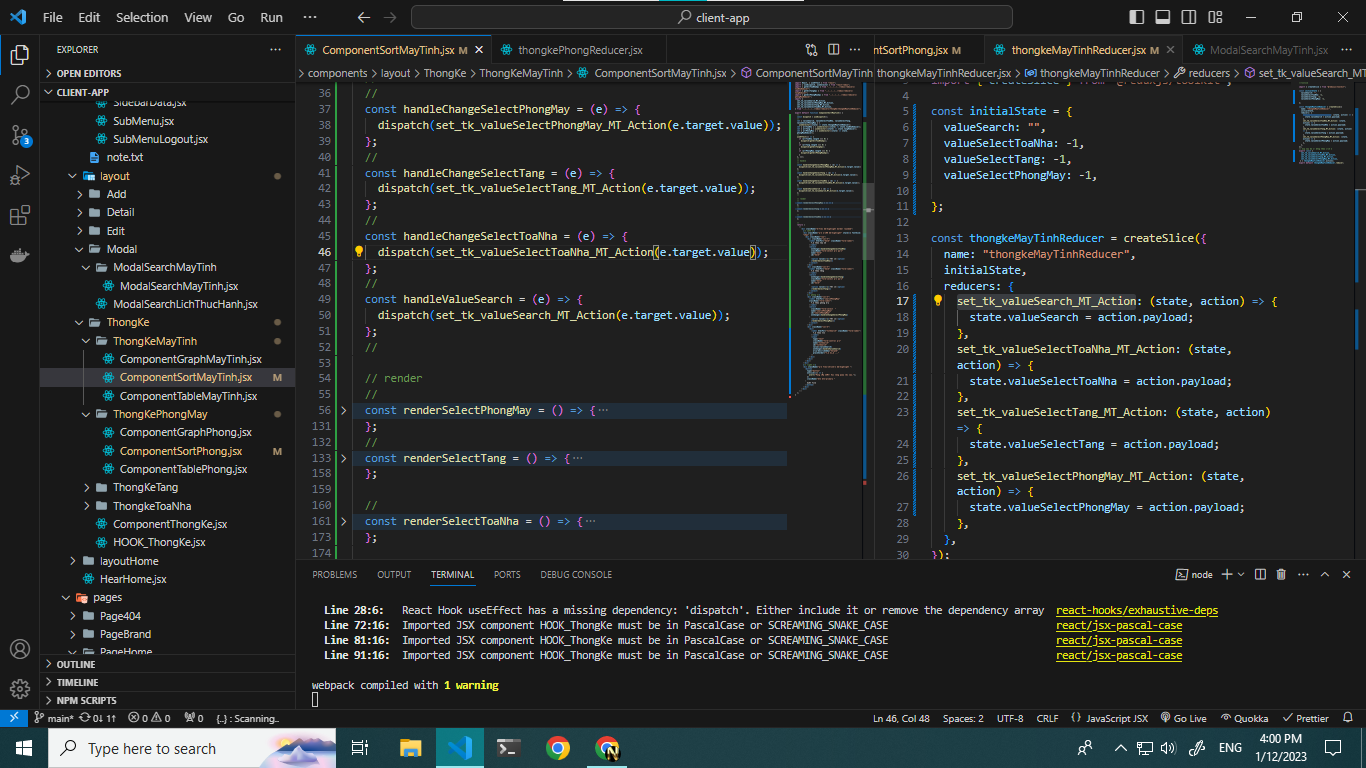
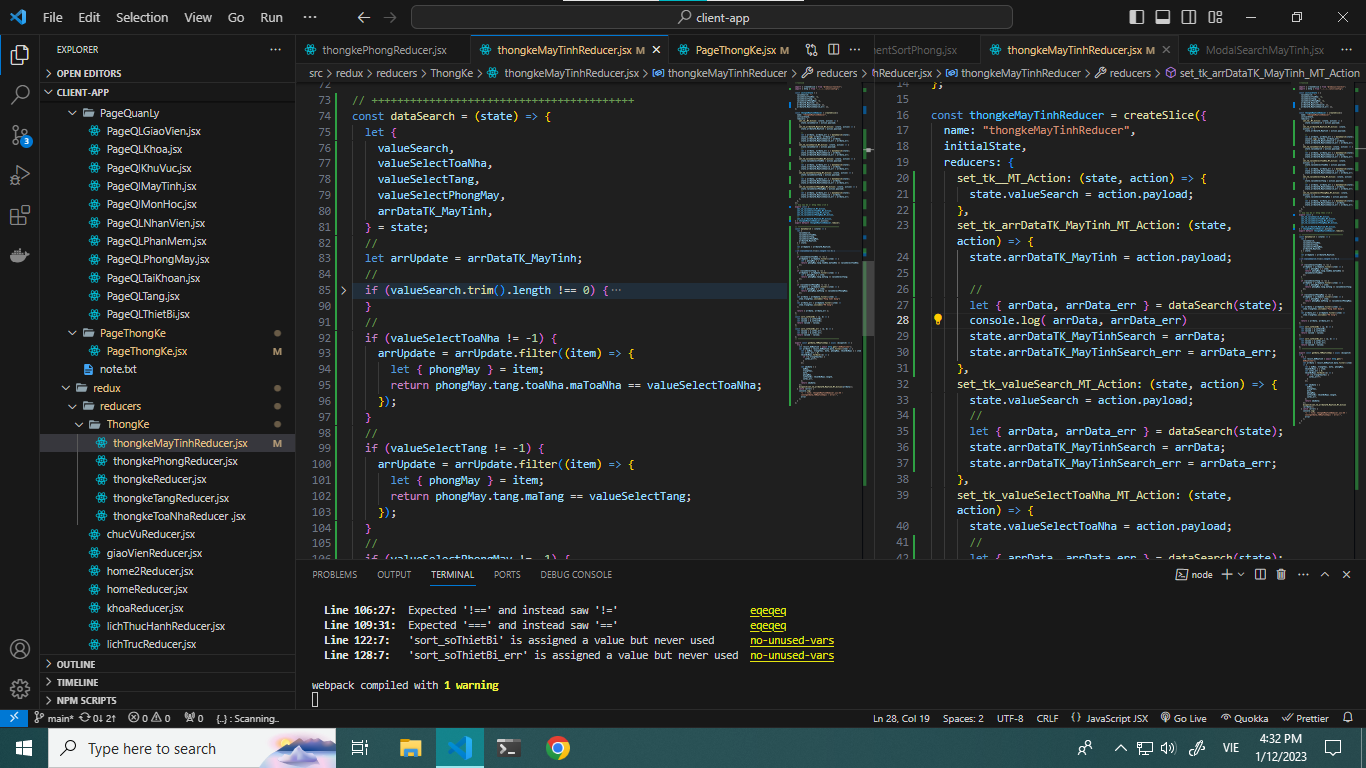
Tk MayTinh - xuly data api - search

diff --git a/src/redux/reducers/ThongKe/thongkeMayTinhReducer.jsx b/src/redux/reducers/ThongKe/thongkeMayTinhReducer.jsx
@@ -1,38 +1,164 @@
 //rxslice
 
 import { createSlice } from "@reduxjs/toolkit";
+import { http } from "../../../util/config";
 
 const initialState = {
   valueSearch: "",
   valueSelectToaNha: -1,
   valueSelectTang: -1,
   valueSelectPhongMay: -1,
-
+  arrDataTK_MayTinh: [],
+  arrDataTK_MayTinhSearch: [],
+  arrDataTK_MayTinhSearch_err: [],
 };
 
 const thongkeMayTinhReducer = createSlice({
   name: "thongkeMayTinhReducer",
   initialState,
   reducers: {
+    set_tk__MT_Action: (state, action) => {
+      state.valueSearch = action.payload;
+    },
+    set_tk_arrDataTK_MayTinh_MT_Action: (state, action) => {
+      state.arrDataTK_MayTinh = action.payload;
+
+      //
+      let { arrData, arrData_err } = dataSearch(state);
+      console.log( arrData, arrData_err)
+      state.arrDataTK_MayTinhSearch = arrData;
+      state.arrDataTK_MayTinhSearch_err = arrData_err;
+    },
     set_tk_valueSearch_MT_Action: (state, action) => {
       state.valueSearch = action.payload;
+      //
+      let { arrData, arrData_err } = dataSearch(state);
+      state.arrDataTK_MayTinhSearch = arrData;
+      state.arrDataTK_MayTinhSearch_err = arrData_err;
     },
     set_tk_valueSelectToaNha_MT_Action: (state, action) => {
       state.valueSelectToaNha = action.payload;
+      //
+      let { arrData, arrData_err } = dataSearch(state);
+      state.arrDataTK_MayTinhSearch = arrData;
+      state.arrDataTK_MayTinhSearch_err = arrData_err;
     },
     set_tk_valueSelectTang_MT_Action: (state, action) => {
       state.valueSelectTang = action.payload;
+      //
+      let { arrData, arrData_err } = dataSearch(state);
+      state.arrDataTK_MayTinhSearch = arrData;
+      state.arrDataTK_MayTinhSearch_err = arrData_err;
     },
     set_tk_valueSelectPhongMay_MT_Action: (state, action) => {
       state.valueSelectPhongMay = action.payload;
+      //
+      let { arrData, arrData_err } = dataSearch(state);
+      state.arrDataTK_MayTinhSearch = arrData;
+      state.arrDataTK_MayTinhSearch_err = arrData_err;
     },
   },
 });
 // exp nay de sử dụng theo cách 2
-export const { 
+export const {
   set_tk_valueSearch_MT_Action,
   set_tk_valueSelectToaNha_MT_Action,
   set_tk_valueSelectTang_MT_Action,
   set_tk_valueSelectPhongMay_MT_Action,
- } = thongkeMayTinhReducer.actions;
+  //
+  set_tk_arrDataTK_MayTinh_MT_Action,
+} = thongkeMayTinhReducer.actions;
 export default thongkeMayTinhReducer.reducer;
+
+// +++++++++++++++++++++++++++++++++++++++++
+const dataSearch = (state) => {
+  let {
+    valueSearch,
+    valueSelectToaNha,
+    valueSelectTang,
+    valueSelectPhongMay,
+    arrDataTK_MayTinh,
+  } = state;
+  //
+  let arrUpdate = arrDataTK_MayTinh;
+  //
+  if (valueSearch.trim().length !== 0) {
+    let search = valueSearch.trim().toLowerCase();
+    arrUpdate = arrUpdate.filter((item) => {
+      return item.moTa.toLowerCase().includes(search);
+    });
+  }
+  //
+  if (valueSelectToaNha != -1) {
+    arrUpdate = arrUpdate.filter((item) => {
+      let { phongMay } = item;
+      return phongMay.tang.toaNha.maToaNha == valueSelectToaNha;
+    });
+  }
+  //
+  if (valueSelectTang != -1) {
+    arrUpdate = arrUpdate.filter((item) => {
+      let { phongMay } = item;
+      return phongMay.tang.maTang == valueSelectTang;
+    });
+  }
+  //
+  if (valueSelectPhongMay != -1) {
+    arrUpdate = arrUpdate.filter((item) => {
+      let { phongMay } = item;
+      return phongMay.maPhong == valueSelectPhongMay;
+    });
+  }
+  let arrData = arrUpdate.filter((item) =>
+    item.trangThai.includes("Đang hoạt động")
+  );
+  let arrData_err = arrUpdate.filter((item) =>
+    item.trangThai.includes("Đã hỏng")
+  );
+
+  return { arrData, arrData_err };
+};
+//
+const sort_soThietBi = (a, b) => {
+  let valuea = a.soThietBi;
+  let valueb = b.soThietBi;
+  return valueb - valuea;
+};
+//
+const sort_soThietBi_err = (a, b) => {
+  let valuea = a.soTbi_err;
+  let valueb = b.soTbi_err;
+  return valueb - valuea;
+};
+// +++++++++++++++++++++++++++++++++++++++++
+
+export const getData_TKMayTinhApi = async (dispatch) => {
+  try {
+    let result_DSMayTinh = await http.get("/DSMayTinh2");
+    let arrData = result_DSMayTinh.data.filter((item) => {
+      let { maMay, trangThai, moTa, phongMay, thietBiMays } = item;
+      let soTbi_err = 0;
+      thietBiMays.forEach((e) => {
+        if (!e.trangThaiTbi) {
+          soTbi_err++;
+        }
+      });
+
+      let objData = {
+        maMay,
+        trangThai,
+        moTa,
+        phongMay,
+        soThietBi: thietBiMays.length,
+        soTbi_err,
+      };
+      return objData;
+    });
+    dispatch(set_tk_arrDataTK_MayTinh_MT_Action(arrData));
+  } catch (error) {
+    console.log(
+      "🚀 ~ file: thongkeMayTinhReducer.jsx:45 ~ constgetData_TKMayTinhApi= ~ error:",
+      error
+    );
+  }
+};

diff --git a/src/pages/PageThongKe/PageThongKe.jsx b/src/pages/PageThongKe/PageThongKe.jsx
@@ -16,6 +16,7 @@ import { getData_TkPhong_Api } from "../../redux/reducers/ThongKe/thongkePhongRe
 import ComponentSortMayTinh from "../../components/layout/ThongKe/ThongKeMayTinh/ComponentSortMayTinh";
 import ComponentGraphMayTinh from "../../components/layout/ThongKe/ThongKeMayTinh/ComponentGraphMayTinh";
 import ComponentTableMayTinh from "../../components/layout/ThongKe/ThongKeMayTinh/ComponentTableMayTinh";
+import { getData_TKMayTinhApi } from "../../redux/reducers/ThongKe/thongkeMayTinhReducer";
 
 export default function PageThongKe() {
   //
@@ -24,7 +25,7 @@ export default function PageThongKe() {
   let [valBtnTK, setValBtnTK] = useState("tk_mayTinh");
 
   useEffect(() => {
-    dispatch(getData_TkPhong_Api);
+    dispatch(getData_TKMayTinhApi);
   }, []);
 
   // handle
@@ -40,8 +41,10 @@ export default function PageThongKe() {
         dispatch(set_tk_TheoTang_arr_Api);
         break;
       case "tk_phong":
+        dispatch(getData_TkPhong_Api);
         break;
       case "tk_mayTinh":
+        dispatch(getData_TKMayTinhApi);
         break;
       case "tk_nhanVien":
         break;
